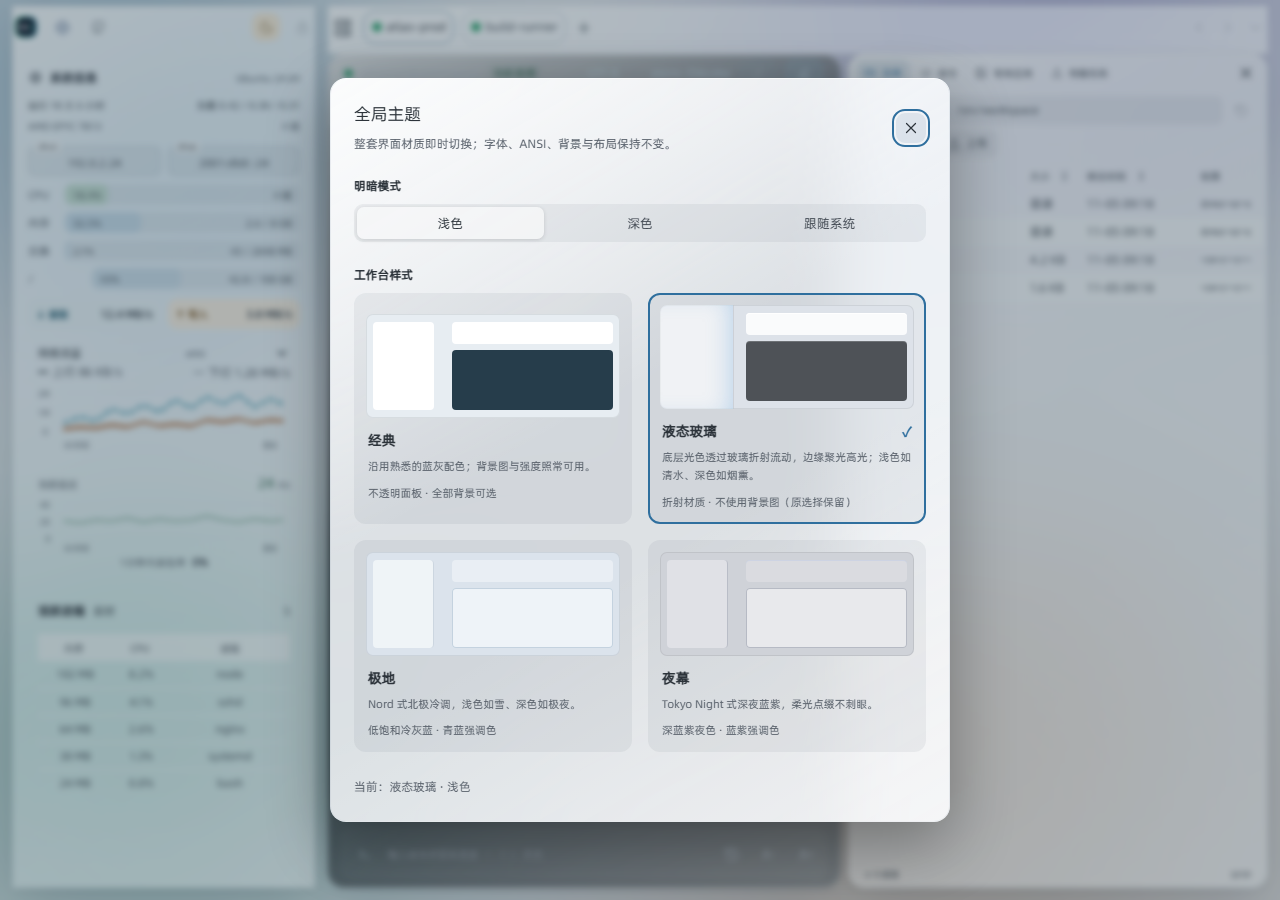
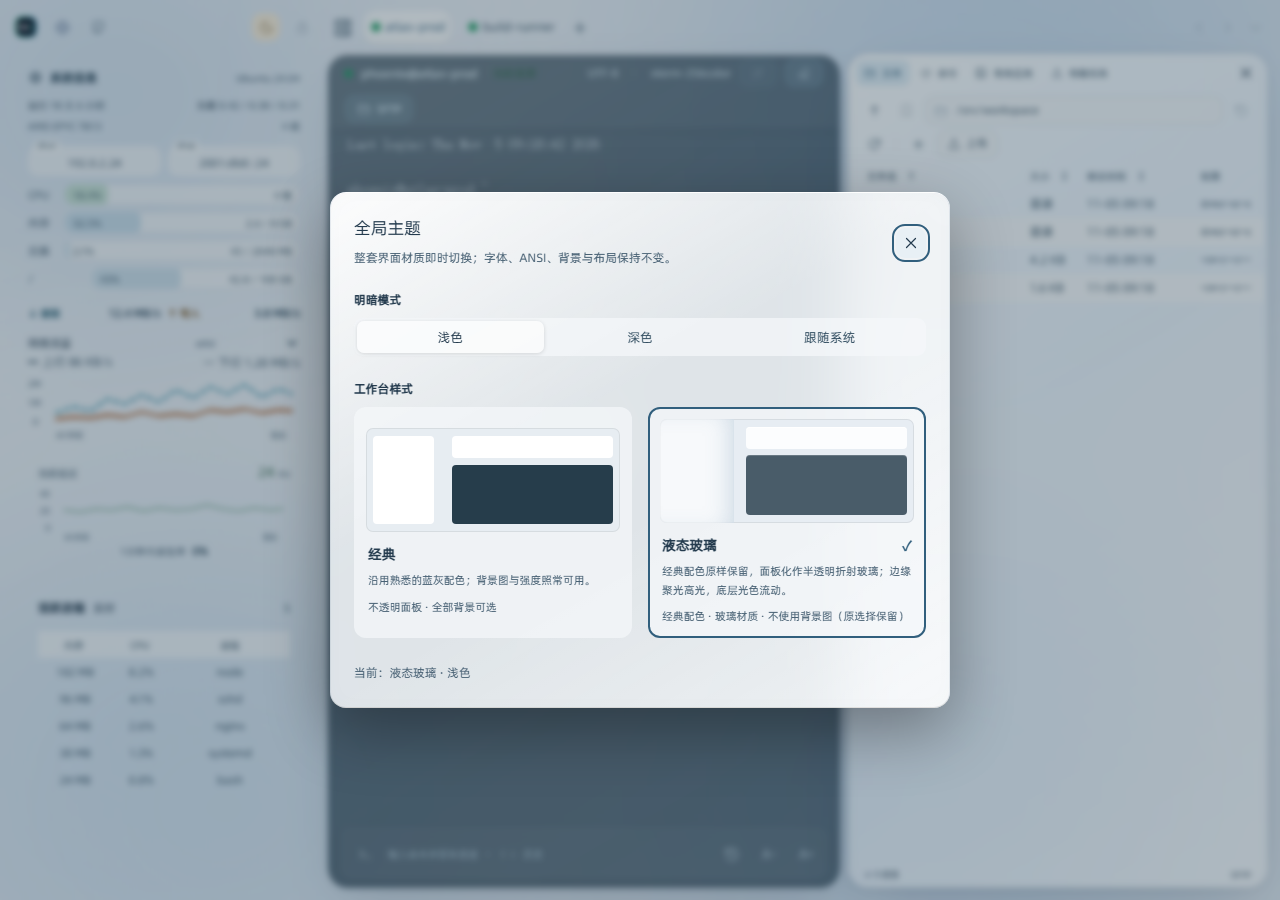
移除全局主题极地与夜幕
保存端工作台样式枚举收窄为 classic/frosted；Appearance.UnmarshalJSON 在加载时将旧配置及主题快照中的 polar/twilight 迁回 classic，保证老用户后续保存不被新校验拒绝。boot 注入白名单、风格选择对话框、预览生成器与文档同步为两套主题，删除极地/夜幕预览图。验证：go vet、go test ./internal/app（含新增迁移回归）、npm run check、test:theme 全部通过；预览页已重新生成并补拍对话框截图。

diff --git a/web/js/help-guide.js b/web/js/help-guide.js
@@ -18,7 +18,7 @@
     { id: 'monitor', title: '系统、进程与磁盘', icon: 'cpu', html: `<p>左侧上方以对应操作系统图标和完整名称突出显示发行版，并显示当前服务器的运行时间、CPU、内存、交换空间和负载；活跃进程常驻显示前五，可按 CPU 或内存切换排名。点击进程区域打开独立的完整进程标签，支持按 PID、名称或状态搜索，以及 CPU、内存、PID、状态和名称排序。每页显示 50、100 或 200 行；每个服务器保留自己的搜索和分页。可暂停自动刷新，切走进程标签后停止该页面请求。完整列表的 RSS 使用轻量内核计数，估算值带“≈”；侧栏只对前五候选精读内存。大量进程或采集较慢时自动降低刷新频率，失败会保留上次数据并提示。</p><p>网络流量每<strong>1秒</strong>独立采样，负载、CPU、内存和磁盘速率每<strong>5秒</strong>采样；网卡元信息和磁盘容量约30秒刷新。每条已连接SSH的网卡流量在后台持续记录，切换标签或最小化也保留最近30秒真实历史；回到标签时立即显示。负载、CPU、内存和磁盘等其它采样仍按可见状态请求。网络使用远端实际时间差计算，SSH或TUN返回延迟不会被当成远端采样间隔。读数明确标注“上行”和“下行”，例如上行4.0 KiB/s、下行819 B/s。默认上行橙色实线、下行蓝色虚线，可在“设置 → 外观配置 → 曲线样式”中分别调整颜色、粗细和线型；刻度按最近<strong>60秒</strong>数据自动切换B/s、KiB/s、MiB/s、GiB/s刻度（1024进位），新峰值立即扩大范围，较小范围稳定5秒后缩小。缺测保留断点，不填入假零值。下方磁盘区域汇总已挂载本地磁盘文件系统的已用、可用和总计空间，包括独立的 /home、/data 等分区；同一文件系统的重复挂载只计算一次，排除内存盘、网络挂载、容器叠加层及 SWAP。容量以文件系统报告值为准，不包含未挂载空间，可用空间可能因文件系统保留空间而少于总计减已用。容器或存储池根文件系统无法安全合计时，保留根文件系统容量。读写速度仍显示在下方，悬停容量区域可查看参与汇总的路径。</p><p>IPv4/IPv6面板只显示可确认的公网地址，点击复制，悬停查看来源；可能显示SSH入口或网卡地址。NAT入口不等于服务器出口，无法确认时显示“—”。真实内网地址仍保留在网卡菜单提示中。</p><p>这些数值来自远程服务器的周期采样，不是本机硬件数据。刚连接时需要等待首轮采样；部分权限或系统接口不可用时可能显示“—”。较窄窗口可通过顶部芯片图标打开侧栏。</p>` },
     { id: 'network', title: 'ICMP 与 MTR 网络诊断', icon: 'network', html: `<p>ICMP 区域展示本机到服务器的当前延迟、最近 1 分钟丢包率和延迟连续曲线。曲线从左到右由旧到新，经过真实采样并保留峰值；丢包和缺测位置断开。刻度与曲线使用同一坐标系；左侧毫秒刻度按当前样本调整，非零起点有断轴标记。成功回包使用同一种颜色，红叉代表超时或不可达（延迟未知），灰点代表待回包或本机探测不可用。悬停可查看时间、读数和状态，也可聚焦图表后用左右方向键逐项查看。</p><p>点击网络区域可打开 MTR 诊断。可以从本机探测服务器，也可以从远程服务器探测你指定的目标，查看每一跳的响应和可用的 ASN 信息。</p><ul><li>缺少 <code>mtr</code> 时，界面会显示安装方案和命令，只有明确确认后才开始安装。</li><li>需要交互验证时，按提示在对应终端完成；安装后可以重新检测。</li><li>中间路由器可能不响应或限制探测包，单个中间节点不回复不能直接判断业务流量丢包。</li><li>代理、TUN、路由和目标是否允许 ICMP，都会影响结果。ICMP 数值不是 SSH 会话的按键响应计时。</li></ul>` },
     { id: 'fonts', title: '字体、加粗与文字颜色', icon: 'type', html: `<p>左上角设置 → 外观配置 → <strong>Shell 字体与颜色</strong>打开字体管理器。内置 JetBrains Mono、Fira Code、Source Code Pro、IBM Plex Mono、Maple Mono CN 五款字体，Maple 同时补齐中文。在线字体库提供 30 款 Shell 字体，确认后下载并保存到本机；也可导入 TTF、OTF、WOFF、WOFF2 字体。</p><ul><li>点击字体卡片立即切换终端字体；字号控件与终端 A− / A+ 均按 <strong>0.5 px</strong> 调整，范围为 8–40 px。可输入例如 14.5，选择会保存，重启后保留。</li><li>每张卡片都有独立的<strong>加粗</strong>和<strong>颜色</strong>控件，颜色按钮打开可拖动的配色窗口。可用预设色、颜色选择器、RGB 数值或 HEX 颜色。</li><li>当前字体的修改立即预览；修改其他卡片只保存那款字体的样式，切换过去后再应用。</li><li>字体管理器可拖动，不遮暗终端，方便观察真实显示效果。可以删除自行导入的字体。</li></ul><p>外观配置中的<strong>提示符颜色</strong>可分别调整 @ 前的用户名和 @ 后的主机名，支持预设色、RGB、HEX 和拖动预览；Bash / Zsh / Fish 在下次提示符出现时生效，两项选择“保持原样”恢复原提示符。终端默认文字颜色可自定义，远程程序主动设置的 ANSI 颜色仍保留其含义。自定义字体的符号覆盖和等宽效果取决于字体本身。</p>` },
-    { id: 'appearance', title: '背景、主题、布局与缩放', icon: 'image', html: `<p>设置 → 外观配置 → <strong>背景管理器</strong>可选择内置背景或导入 PNG、JPG、WebP 图片，并调整显示强度。选择后立即应用；面板可拖动，自定义背景可删除。</p><ul><li>外观配置中的<strong>终端 ANSI 颜色</strong>提供柔和、高饱和、鲜亮三套 16 色预设，本地调整 ls、vim 等程序彩色文件名等语义色，切换即时生效；真彩色与 256 色不受影响。</li><li>外观配置中的<strong>全局主题</strong>提供经典、液态玻璃、极地、夜幕四种整套界面材质，切换会重绘面板、菜单、对话框与强调色，并与明暗模式、字体、ANSI、背景与布局互相独立；液态玻璃沿用经典配色，只把面板换成高度透明的折射玻璃，底层光色透过玻璃流动、边缘带聚光高光与镜面光泽，不使用背景图（原背景选择会保留），系统不支持透明模糊或开启减少透明度时自动回退同色实底；极地为 Nord 式北极冷调，夜幕为 Tokyo Night 式深夜蓝紫，两者两种明暗下终端都保持深色阅读底。选择后立即生效并保存。</li><li>外观配置中的<strong>明暗跟随系统</strong>让Windows和Linux随桌面偏好切换主题，选择会保存。左上角太阳 / 月亮按钮手动切换浅色和深色时会退出跟随；重新打开该开关即可恢复。系统变化和手动变化都使用开灯/关灯渐变。</li><li>默认最小窗口宽度为 1100 px（小屏幕以可用工作区为限）。监控栏宽度固定为 304 px，右侧 SFTP 面板宽度固定为 420 px；打开右侧面板会扩展窗口，关闭时收回扩展的宽度。最大化或屏幕空间不足时自动调整缩放，保证工具按钮可见。上方、下方的 SFTP 面板仍可拖动分隔条调整高度；SFTP 面板的位置（终端下方／右侧／上方）统一在设置的「SFTP面板」中选择，面板内右上角的按钮只用于关闭面板；「跟随终端目录」也同样是设置中的下拉选择，默认开启。</li><li>设置中的<strong>界面缩放</strong>调整整个应用；终端的字号按钮只改变终端文字。</li><li>设置中的<strong>简洁模式</strong>一键隐藏监控面板、SFTP 面板与终端标题栏（含断开、固定、SFTP 按钮），并把底部命令输入条自动收起为左侧按钮（点按钮可临时展开）；关闭开关后监控面板与标题栏恢复，SFTP 面板不自动展开，需要时手动打开。</li><li>窗口较小时会适当限制实际缩放，避免控件被挤出窗口；放大窗口后恢复所选比例。</li><li>外观配置中的<strong>主题管理</strong>把当前整套外观（明暗模式、全局主题、界面与终端字体颜色、ANSI 预设、背景与强度、终端字号、曲线样式、提示符颜色）保存为独立主题：从当前外观新建，支持应用、重命名、复制与两步确认删除。应用时整套生效；主题引用的字体或背景若已被删除会报错并保持当前外观不变。主题不影响布局与界面缩放。</li><li>外观配置中的“恢复默认布局”恢复布局和终端字号。</li></ul>` },
+    { id: 'appearance', title: '背景、主题、布局与缩放', icon: 'image', html: `<p>设置 → 外观配置 → <strong>背景管理器</strong>可选择内置背景或导入 PNG、JPG、WebP 图片，并调整显示强度。选择后立即应用；面板可拖动，自定义背景可删除。</p><ul><li>外观配置中的<strong>终端 ANSI 颜色</strong>提供柔和、高饱和、鲜亮三套 16 色预设，本地调整 ls、vim 等程序彩色文件名等语义色，切换即时生效；真彩色与 256 色不受影响。</li><li>外观配置中的<strong>全局主题</strong>提供经典、液态玻璃两套整套界面材质，切换会重绘面板、菜单、对话框与强调色，并与明暗模式、字体、ANSI、背景与布局互相独立；液态玻璃沿用经典配色，只把面板换成高度透明的折射玻璃，底层光色透过玻璃流动、边缘带聚光高光与镜面光泽，不使用背景图（原背景选择会保留），系统不支持透明模糊或开启减少透明度时自动回退同色实底。选择后立即生效并保存。</li><li>外观配置中的<strong>明暗跟随系统</strong>让Windows和Linux随桌面偏好切换主题，选择会保存。左上角太阳 / 月亮按钮手动切换浅色和深色时会退出跟随；重新打开该开关即可恢复。系统变化和手动变化都使用开灯/关灯渐变。</li><li>默认最小窗口宽度为 1100 px（小屏幕以可用工作区为限）。监控栏宽度固定为 304 px，右侧 SFTP 面板宽度固定为 420 px；打开右侧面板会扩展窗口，关闭时收回扩展的宽度。最大化或屏幕空间不足时自动调整缩放，保证工具按钮可见。上方、下方的 SFTP 面板仍可拖动分隔条调整高度；SFTP 面板的位置（终端下方／右侧／上方）统一在设置的「SFTP面板」中选择，面板内右上角的按钮只用于关闭面板；「跟随终端目录」也同样是设置中的下拉选择，默认开启。</li><li>设置中的<strong>界面缩放</strong>调整整个应用；终端的字号按钮只改变终端文字。</li><li>设置中的<strong>简洁模式</strong>一键隐藏监控面板、SFTP 面板与终端标题栏（含断开、固定、SFTP 按钮），并把底部命令输入条自动收起为左侧按钮（点按钮可临时展开）；关闭开关后监控面板与标题栏恢复，SFTP 面板不自动展开，需要时手动打开。</li><li>窗口较小时会适当限制实际缩放，避免控件被挤出窗口；放大窗口后恢复所选比例。</li><li>外观配置中的<strong>主题管理</strong>把当前整套外观（明暗模式、全局主题、界面与终端字体颜色、ANSI 预设、背景与强度、终端字号、曲线样式、提示符颜色）保存为独立主题：从当前外观新建，支持应用、重命名、复制与两步确认删除。应用时整套生效；主题引用的字体或背景若已被删除会报错并保持当前外观不变。主题不影响布局与界面缩放。</li><li>外观配置中的“恢复默认布局”恢复布局和终端字号。</li></ul>` },
     { id: 'config', title: '配置、备份与换电脑', icon: 'folder', html: `<p>设置 → <strong>连接配置文档</strong>可查看实际保存位置并复制路径。便携版默认使用程序旁 data 目录；deb 版使用用户配置目录。</p><ol><li><strong>升级：</strong>在同一目录中替换可执行程序，保留配置文件和资源。</li><li><strong>备份或换电脑：</strong>一起复制 <code>devshell.config.enc</code>、<code>devshell.config.key</code>、<code>assets/</code> 和 <code>keys/</code>，不要只复制加密配置文件。</li><li><strong>恢复：</strong>退出应用，将整套备份放回实际配置目录，再启动。手动指定的外部私钥需要另行复制并检查路径。</li></ol><p>多个窗口共享同一配置服务，保存时只合并实际修改的设置、字体样式键和历史键，避免旧快照覆盖其他窗口的新设置；同一项同时修改时以最后成功保存为准。程序使用旁边的密钥文件自动解锁配置；加密不防止文件被删除。新程序目录没有配置时不会自动读取旧的用户目录，请按“连接配置文档”中的迁移说明处理。具体位置以应用显示的实际路径为准。</p>` },
     { id: 'startup', title: '启动、版本与再次查看帮助', icon: 'settings', html: `<p>首次功能引导会在版本提示结束后出现；“暂时结束”、关闭按钮或 <kbd>Esc</kbd> 都可以提前结束，并记录为已查看。</p><p>启动时可检查版本信息。发现新版本时显示当前版本、新版本和更新说明，可以选择“稍后再说”。Windows、Debian/Ubuntu 和 Arch pacman 版确认在线升级后会下载、验证发行签名并安装更新；Linux 安装需要系统授权。旧 Arch 客户端须先手动安装一次 R28 或更新版。其他 Linux 系列可到官网下载 RPM 或通用安装包。替换主程序需要重新启动并断开会话；可备份配置后在原目录手动替换程序。</p><p>设置按钮左侧的书本图标始终是本手册入口。手册支持关键词搜索和章节跳转，下方“重新查看引导”会从第一步重新开始；查看说明不会创建连接或执行命令。</p>` },
     { id: 'file-editor', title: '文件右键菜单与文本编辑器', icon: 'file', html: `<p>双击文件默认进入内置文本编辑器。左侧目录树不响应右键。右侧右键文件或目录可以打开、选择打开方式、删除、快速删除、重命名、打包下载、复制路径及修改权限；空白处右键可以刷新、新建文件或文件夹。</p><p>文本编辑器支持 UTF-8、带 BOM 的 UTF-8 / UTF-16、GB18030、GBK 和 Big5，保留原有 BOM、空格及混合换行。粘贴按剪贴板交付的 Unicode 原样插入；操作系统已经转换的原始字节无法从剪贴板恢复。编码不明确时需手动选择，不猜测后静默保存。单文件最大 8 MiB。</p><p>每个文件拥有独立标签、文本和撤销记录，可同时打开不同服务器的文件。标签显示服务器、文件名及“当前查看”；可移到新的可拖动编辑窗口，每个窗口都有自己的标签栏。收起后通过文件工具栏“文本编辑器”恢复。关闭未保存文件会询问，连接断开后保留草稿供复制。Ctrl+Tab 切换文件，Ctrl+W 关闭当前文件。</p><p>按 Ctrl+S 保存到文件原所属服务器；保存前检查远程文件是否被其他程序改动，原子替换并保留权限与所有者。系统关联在本地打开下载的副本，可指定编辑器可执行文件；外部修改后需要手动上传。右键菜单的<strong>删除</strong>和<strong>快速删除</strong>都先弹出确认框，列出服务器和完整路径；目录删除包含子项且无法撤销。切换页签不会改变已确认的目标；原连接若已断开，本次删除不会执行。打包在本机进行，不占用远程压缩进程。</p>` },

diff --git a/web/css/ui-styles.css b/web/css/ui-styles.css
@@ -38,22 +38,6 @@
 [data-theme="light"] .ui-style-swatch-frosted i { background:#ffffffa6; border-color:#658daf33; }
 [data-theme="light"] .ui-style-swatch-frosted b { background:#ffffffd9; box-shadow:inset 0 1px #fff; }
 [data-theme="light"] .ui-style-swatch-frosted em { background:#223746cc; box-shadow:inset 0 1px #ffffff2e; }
-.ui-style-swatch-polar { background:#20242c; }
-.ui-style-swatch-polar i { background:#2e3440dd; border-right:1px solid #434c5e; }
-.ui-style-swatch-polar b { background:#3b4252; }
-.ui-style-swatch-polar em { background:#242933; box-shadow:inset 0 0 0 1px #434c5e,inset 0 1px #88c0d033; }
-[data-theme="light"] .ui-style-swatch-polar { background:#dbe3ec; }
-[data-theme="light"] .ui-style-swatch-polar i { background:#f4f7facc; border-color:#ccd6e0; }
-[data-theme="light"] .ui-style-swatch-polar b { background:#e9eef4; }
-[data-theme="light"] .ui-style-swatch-polar em { background:#eef3f8; box-shadow:inset 0 0 0 1px #c4d2df; }
-.ui-style-swatch-twilight { background:#12121a; }
-.ui-style-swatch-twilight i { background:#1a1b26; border-right:1px solid #292e42; }
-.ui-style-swatch-twilight b { background:#24283b; box-shadow:inset 0 1px #7aa2f722; }
-.ui-style-swatch-twilight em { background:#16161e; box-shadow:inset 0 0 0 1px #292e42,inset 0 1px #bb9af726; }
-[data-theme="light"] .ui-style-swatch-twilight { background:#cfd2d8; }
-[data-theme="light"] .ui-style-swatch-twilight i { background:#e4e5eacc; border-color:#b9bdc7; }
-[data-theme="light"] .ui-style-swatch-twilight b { background:#dadbe0; }
-[data-theme="light"] .ui-style-swatch-twilight em { background:#e8e9ec; box-shadow:inset 0 0 0 1px #b6bac4; }
 #ui-styles-dialog .ui-style-status { margin:0; min-height:18px; font-size:12px; color:var(--muted); }
 @media(max-width:520px) { #ui-styles-dialog { padding:18px; } .ui-style-grid { gap:10px; } .ui-style-swatch { height:88px; } }
 
@@ -162,47 +146,3 @@ html[data-ui-style="frosted"]:not([data-narrow="true"]):not([data-monitor-visibl
   .ui-style-card[aria-pressed="true"],.ui-style-segmented button[aria-pressed="true"] { border:2px solid Highlight; }
 }
 
-/* —— 极地：Nord 式冷色材质，浅色如雪、深色如极夜，不透明 —— */
-:root[data-ui-style="polar"][data-theme] {
-  --surface:#343c4a; --surface-inset:#2b323e; --surface-hover:#414a5c; --surface-selected:#4c5870;
-  --border:#47526680; --text:#eceff4; --text-secondary:#d8dee9; --muted:#adb8c8; --text-faint:#8d99ab;
-  --accent:#88c0d0; --focus-surface:#3d4757; --focus-input:#2e3542; --primary-focus:#5e81ac;
-  --shadow:0 3px 18px #0000002e,0 1px 3px #0000001a;
-  color-scheme:dark; background:#242933; color:var(--text);
-}
-:root[data-ui-style="polar"][data-theme="light"] {
-  --surface:#f6f9fc; --surface-inset:#e9eef4; --surface-hover:#dde6ef; --surface-selected:#cfe0ec;
-  --border:#ccd6e0; --text:#2e3440; --text-secondary:#3b4252; --muted:#4c566a; --text-faint:#6a7488;
-  --accent:#3f6d94; --focus-surface:#dce8f2; --focus-input:#ffffff; --primary-focus:#3b6ea5;
-  --shadow:0 3px 18px #33445c14,0 1px 3px #33445c0a;
-  color-scheme:light; background:#e0e8f0;
-}
-[data-ui-style="polar"] body { background:linear-gradient(165deg,#eef3f8,#e2e9f1 55%,#d9e2eb); color:var(--text); }
-[data-ui-style="polar"][data-theme] body { background:linear-gradient(165deg,#2c333f,#252a34 55%,#1f242c); }
-[data-ui-style="polar"] :is(.primary-button,.dialog-actions .primary-button) { background:#487398; color:#f3f7fb; }
-[data-ui-style="polar"][data-theme] :is(.primary-button,.dialog-actions .primary-button) { background:#5e81ac; color:#f0f4fa; }
-/* 终端与毛玻璃同策：两种明暗都用深色阅读底，保证 ANSI 可读。 */
-[data-ui-style="polar"] .terminal-panel { background:#2b323e; }
-[data-ui-style="polar"][data-theme="light"] .terminal-panel { background:#3b4351; }
-
-/* —— 夜幕：Tokyo Night 式深蓝紫夜色，浅色取其日间变体 —— */
-:root[data-ui-style="twilight"][data-theme] {
-  --surface:#1f2133; --surface-inset:#16161e; --surface-hover:#2a2f4a; --surface-selected:#35406b;
-  --border:#333a5880; --text:#a9b1d6; --text-secondary:#9aa5ce; --muted:#7f88b0; --text-faint:#616a95;
-  --accent:#7aa2f7; --focus-surface:#2b3153; --focus-input:#232740; --primary-focus:#3d59a1;
-  --shadow:0 4px 22px #00000040,0 1px 3px #00000026;
-  color-scheme:dark; background:#13131b; color:var(--text);
-}
-:root[data-ui-style="twilight"][data-theme="light"] {
-  --surface:#eceef2; --surface-inset:#dfe1e7; --surface-hover:#d3d7e0; --surface-selected:#c4cee2;
-  --border:#b9bdc7; --text:#373b4d; --text-secondary:#4c505e; --muted:#6d7284; --text-faint:#8a8fa2;
-  --accent:#3763bd; --focus-surface:#d7deee; --focus-input:#f6f7fa; --primary-focus:#3763bd;
-  --shadow:0 3px 18px #262b4516,0 1px 3px #262b450c;
-  color-scheme:light; background:#dcdee5;
-}
-[data-ui-style="twilight"] body { background:radial-gradient(ellipse at 18% 0%,#e3e5ea,#d2d5dd 70%); color:var(--text); }
-[data-ui-style="twilight"][data-theme] body { background:radial-gradient(ellipse at 18% 0%,#1c1e2e,#101019 70%); }
-[data-ui-style="twilight"] :is(.primary-button,.dialog-actions .primary-button) { background:#3763bd; color:#f4f7fd; }
-[data-ui-style="twilight"][data-theme] :is(.primary-button,.dialog-actions .primary-button) { background:#3d59a1; color:#dbe4fb; }
-[data-ui-style="twilight"] .terminal-panel { background:#16161e; }
-[data-ui-style="twilight"][data-theme="light"] .terminal-panel { background:#2a2f4a; }

diff --git a/docs/design/global-themes-preview.html b/docs/design/global-themes-preview.html
@@ -210,8 +210,6 @@
     <fieldset><legend>工作台样式</legend><div class="ui-style-grid">
       <button type="button" class="ui-style-card" data-ui-style="classic"><span class="ui-style-swatch ui-style-swatch-classic" aria-hidden="true"><i></i><b></b><em></em></span><span class="ui-style-card-heading">经典 <span class="ui-style-selected">✓</span></span><small>沿用熟悉的蓝灰配色；背景图与强度照常可用。</small><span class="ui-style-card-meta">不透明面板 · 全部背景可选</span></button>
       <button type="button" class="ui-style-card" data-ui-style="frosted"><span class="ui-style-swatch ui-style-swatch-frosted" aria-hidden="true"><i></i><b></b><em></em></span><span class="ui-style-card-heading">液态玻璃 <span class="ui-style-selected">✓</span></span><small>经典配色原样保留，面板化作半透明折射玻璃；边缘聚光高光，底层光色流动。</small><span class="ui-style-card-meta">经典配色 · 玻璃材质 · 不使用背景图（原选择保留）</span></button>
-      <button type="button" class="ui-style-card" data-ui-style="polar"><span class="ui-style-swatch ui-style-swatch-polar" aria-hidden="true"><i></i><b></b><em></em></span><span class="ui-style-card-heading">极地 <span class="ui-style-selected">✓</span></span><small>Nord 式北极冷调，浅色如雪、深色如极夜。</small><span class="ui-style-card-meta">低饱和冷灰蓝 · 青蓝强调色</span></button>
-      <button type="button" class="ui-style-card" data-ui-style="twilight"><span class="ui-style-swatch ui-style-swatch-twilight" aria-hidden="true"><i></i><b></b><em></em></span><span class="ui-style-card-heading">夜幕 <span class="ui-style-selected">✓</span></span><small>Tokyo Night 式深夜蓝紫，柔光点缀不刺眼。</small><span class="ui-style-card-meta">深蓝紫夜色 · 蓝紫强调色</span></button>
     </div></fieldset>
     <p class="ui-style-status" id="ui-style-status" role="status"></p>
   </dialog>
@@ -246,8 +244,8 @@
   systemRow.innerHTML = '<span>明暗跟随系统<small id="follow-system-theme-hint"></small></span><input id="follow-system-theme" type="checkbox" role="switch" aria-describedby="follow-system-theme-hint">';
   $('#settings-appearance-view .settings-submenu-heading').after(systemRow);
   $('#ui-scale').value = '1';
-  const styleNames = { classic: '经典', frosted: '液态玻璃', polar: '极地', twilight: '夜幕' };
-  const validStyle = value => ['classic', 'frosted', 'polar', 'twilight'].includes(value) ? value : 'frosted';
+  const styleNames = { classic: '经典', frosted: '液态玻璃' };
+  const validStyle = value => ['classic', 'frosted'].includes(value) ? value : 'frosted';
   let style = validStyle(params.get('style'));
   let preference = ['light','dark','system'].includes(params.get('mode')) ? params.get('mode') : 'dark';
   function reflect() {

diff --git a/web/index.html b/web/index.html
@@ -327,8 +327,6 @@
     <fieldset><legend>工作台样式</legend><div class="ui-style-grid">
       <button type="button" class="ui-style-card" data-ui-style="classic"><span class="ui-style-swatch ui-style-swatch-classic" aria-hidden="true"><i></i><b></b><em></em></span><span class="ui-style-card-heading">经典 <span class="ui-style-selected">✓</span></span><small>沿用熟悉的蓝灰配色；背景图与强度照常可用。</small><span class="ui-style-card-meta">不透明面板 · 全部背景可选</span></button>
       <button type="button" class="ui-style-card" data-ui-style="frosted"><span class="ui-style-swatch ui-style-swatch-frosted" aria-hidden="true"><i></i><b></b><em></em></span><span class="ui-style-card-heading">液态玻璃 <span class="ui-style-selected">✓</span></span><small>经典配色原样保留，面板化作半透明折射玻璃；边缘聚光高光，底层光色流动。</small><span class="ui-style-card-meta">经典配色 · 玻璃材质 · 不使用背景图（原选择保留）</span></button>
-      <button type="button" class="ui-style-card" data-ui-style="polar"><span class="ui-style-swatch ui-style-swatch-polar" aria-hidden="true"><i></i><b></b><em></em></span><span class="ui-style-card-heading">极地 <span class="ui-style-selected">✓</span></span><small>Nord 式北极冷调，浅色如雪、深色如极夜。</small><span class="ui-style-card-meta">低饱和冷灰蓝 · 青蓝强调色</span></button>
-      <button type="button" class="ui-style-card" data-ui-style="twilight"><span class="ui-style-swatch ui-style-swatch-twilight" aria-hidden="true"><i></i><b></b><em></em></span><span class="ui-style-card-heading">夜幕 <span class="ui-style-selected">✓</span></span><small>Tokyo Night 式深夜蓝紫，柔光点缀不刺眼。</small><span class="ui-style-card-meta">深蓝紫夜色 · 蓝紫强调色</span></button>
     </div></fieldset>
     <p class="ui-style-status" id="ui-style-status" role="status"></p>
   </dialog>

diff --git a/web/js/ui-styles.js b/web/js/ui-styles.js
@@ -1,15 +1,16 @@
-/* 全局主题对话框：选择工作台样式（classic/frosted/polar/twilight）与明暗模式。
+/* 全局主题对话框：选择工作台样式（classic/frosted）与明暗模式。
    样式只重绘整套界面材质，走普通 appearance 补丁持久化；与字体、ANSI、
-   背景选择、布局互相独立，切换不重建终端也不中断连接。 */
+   背景选择、布局互相独立，切换不重建终端也不中断连接。旧的极地（polar）
+   与夜幕（twilight）已移除，保存值在加载时迁回 classic。 */
 (() => {
   'use strict';
   const dialog = document.getElementById('ui-styles-dialog');
   const status = document.getElementById('ui-style-status');
   const styles = [...dialog.querySelectorAll('[data-ui-style]')];
   const modes = [...dialog.querySelectorAll('[data-theme-mode]')];
-  const names = { classic: '经典', frosted: '液态玻璃', polar: '极地', twilight: '夜幕' };
+  const names = { classic: '经典', frosted: '液态玻璃' };
   let saving = false;
-  function currentStyle() { return ['frosted', 'polar', 'twilight'].includes(appearance.uiStyle) ? appearance.uiStyle : 'classic'; }
+  function currentStyle() { return appearance.uiStyle === 'frosted' ? 'frosted' : 'classic'; }
   function reflect() {
     const style = currentStyle();
     for (const button of styles) button.setAttribute('aria-pressed', String(button.dataset.uiStyle === style));

diff --git a/web/js/appearance.js b/web/js/appearance.js
@@ -1,6 +1,6 @@
 'use strict';
 
-let appearance = { uiStyle: ['frosted', 'polar', 'twilight'].includes(window.DEVSHELL?.uiStyle) ? window.DEVSHELL.uiStyle : 'classic', uiFontId: 'builtin:ui-alibaba-puhuiti-3-55', uiTextColors: {}, fontId: 'builtin:jetbrains-mono', fontColors: {}, fontBold: {}, chartStyles: {}, backgroundId: 'builtin:none', backgroundOpacity: .42, backgroundVersion: 2, uiScale: Number(window.DEVSHELL?.uiScale) || 1, terminalFontSize: 14, ansiPalette: '', autoCommandsEnabled: true, localShellEnabled: false, tcpToolsEnabled: true };
+let appearance = { uiStyle: window.DEVSHELL?.uiStyle === 'frosted' ? 'frosted' : 'classic', uiFontId: 'builtin:ui-alibaba-puhuiti-3-55', uiTextColors: {}, fontId: 'builtin:jetbrains-mono', fontColors: {}, fontBold: {}, chartStyles: {}, backgroundId: 'builtin:none', backgroundOpacity: .42, backgroundVersion: 2, uiScale: Number(window.DEVSHELL?.uiScale) || 1, terminalFontSize: 14, ansiPalette: '', autoCommandsEnabled: true, localShellEnabled: false, tcpToolsEnabled: true };
 const appearanceMapFields = new Set(['fontColors', 'fontBold', 'chartStyles', 'uiTextColors']);
 const appearanceOwnedElsewhere = new Set(['layout', 'windowWidth', 'windowHeight', 'windowMaximised', 'terminalBold']);
 let appearanceSaved = appearanceSnapshot(appearance);

diff --git a/web/js/theme.js b/web/js/theme.js
@@ -2,7 +2,7 @@
 (() => {
   'use strict';
   const key = 'cloudshell.theme';
-  const uiStyles = new Set(['classic', 'frosted', 'polar', 'twilight']);
+  const uiStyles = new Set(['classic', 'frosted']);
   // Global workbench style: persisted through the appearance config, applied
   // here before styles load so the first painted frame already matches.
   document.documentElement.dataset.uiStyle = uiStyles.has(window.DEVSHELL?.uiStyle) ? window.DEVSHELL.uiStyle : 'classic';

diff --git a/internal/app/preferences.go b/internal/app/preferences.go
@@ -29,7 +29,7 @@ type Appearance struct {
 	// panels, dialogs and accents — not just a background picture). Each
 	// style paints its own light and dark variant and stays orthogonal to
 	// Theme, fonts, ANSI colours, background choice and layout.
-	UIStyle             string `json:"uiStyle"` // classic (default) | frosted | polar | twilight
+	UIStyle             string `json:"uiStyle"` // classic (default) | frosted
 	Theme               string `json:"theme"`
 	AnsiPalette         string `json:"ansiPalette,omitempty"` // soft (default) | vivid | bright
 	WindowWidth         int    `json:"windowWidth"`
@@ -98,6 +98,10 @@ func defaultAppearance() Appearance {
 	return Appearance{UIFontID: defaultUIFontID, UITextColors: map[string]string{}, FontID: "builtin:jetbrains-mono", FontColors: map[string]string{}, FontBold: map[string]bool{}, ChartStyles: map[string]ChartLineStyle{}, BackgroundID: "builtin:none", BackgroundOpacity: .42, BackgroundVersion: 2, UIScale: 1, TerminalFontSize: 14, UIStyle: "classic", Theme: "system", MonitorVisible: true, FilesPosition: "right", FollowTerminal: true, MinimizeAction: "ask", AutoCommandsEnabled: true, TcpToolsEnabled: true, Layout: map[string]json.RawMessage{}}
 }
 
+// retiredUIStyle names the polar/twilight workbench styles removed in
+// November 2026; saved values migrate to classic on load.
+func retiredUIStyle(value string) bool { return value == "polar" || value == "twilight" }
+
 // Old releases combined 18% image opacity with a dark multiply tint. Keep
 // explicit strengths, including zero, while replacing that old default once.
 func (value *Appearance) UnmarshalJSON(data []byte) error {
@@ -118,6 +122,16 @@ func (value *Appearance) UnmarshalJSON(data []byte) error {
 	}
 	if next.UIFontID == "" || retiredBuiltinUIFont(next.UIFontID) {
 		next.UIFontID = defaultUIFontID
+	}
+	// polar 与 twilight 已从全局主题中移除：旧配置与旧主题快照里的选择
+	// 在加载时迁回 classic，否则之后的任何外观保存都会被枚举校验拒绝。
+	if retiredUIStyle(next.UIStyle) {
+		next.UIStyle = "classic"
+	}
+	for index := range next.Themes {
+		if retiredUIStyle(next.Themes[index].UIStyle) {
+			next.Themes[index].UIStyle = "classic"
+		}
 	}
 	if strings.HasPrefix(next.FontID, "builtin:") && !builtinTerminalFont(next.FontID) {
 		next.FontID = "builtin:jetbrains-mono"
@@ -253,9 +267,9 @@ func normalizeAppearanceThemes(themes []AppearanceTheme) error {
 		}
 		if theme.UIStyle != "" {
 			switch theme.UIStyle {
-			case "classic", "frosted", "polar", "twilight":
+			case "classic", "frosted":
 			default:
-				return errors.New("主题工作台样式应为 classic、frosted、polar 或 twilight")
+				return errors.New("主题工作台样式应为 classic 或 frosted")
 			}
 		}
 		if theme.AnsiPalette != "" && theme.AnsiPalette != "soft" && theme.AnsiPalette != "vivid" && theme.AnsiPalette != "bright" {
@@ -380,9 +394,9 @@ func (s *Store) saveAppearanceLocked(value Appearance) (Appearance, error) {
 		value.UIStyle = "classic"
 	}
 	switch value.UIStyle {
-	case "classic", "frosted", "polar", "twilight":
+	case "classic", "frosted":
 	default:
-		return Appearance{}, errors.New("工作台样式应为 classic、frosted、polar 或 twilight")
+		return Appearance{}, errors.New("工作台样式应为 classic 或 frosted")
 	}
 	if err := validateSavedLayout(value.Layout); err != nil {
 		return Appearance{}, err

diff --git a/internal/app/theme_preferences_test.go b/internal/app/theme_preferences_test.go
@@ -2,6 +2,8 @@ package app
 
 import (
 	"encoding/json"
+	"os"
+	"path/filepath"
 	"strings"
 	"testing"
 )
@@ -117,7 +119,8 @@ func TestAppearanceThemesEmptyIsQuiet(t *testing.T) {
 	}
 }
 
-// 全局工作台样式：默认经典、四种枚举合法、非法值整笔拒绝且不动已存值。
+// 全局工作台样式：默认经典、两套枚举合法、已移除的 polar/twilight 整笔
+// 拒绝且不动已存值；旧配置文件里的旧值在加载时迁回 classic。
 func TestAppearanceUIStyle(t *testing.T) {
 	store, err := OpenStore(t.TempDir())
 	if err != nil {
@@ -126,19 +129,45 @@ func TestAppearanceUIStyle(t *testing.T) {
 	if got := store.List().Appearance.UIStyle; got != "classic" {
 		t.Fatal("default style should be classic", got)
 	}
-	for _, style := range []string{"frosted", "polar", "twilight", "classic"} {
+	for _, style := range []string{"frosted", "classic"} {
 		if saved, err := store.PatchAppearance(preferencePatch(t, `{"uiStyle":"`+style+`"}`)); err != nil || saved.UIStyle != style {
 			t.Fatalf("style %s rejected: %v %+v", style, err, saved)
 		}
 	}
-	if _, err := store.PatchAppearance(preferencePatch(t, `{"uiStyle":"vapor"}`)); err == nil || !strings.Contains(err.Error(), "工作台样式") {
-		t.Fatal("unknown style accepted", err)
+	for _, style := range []string{"polar", "twilight", "vapor"} {
+		if _, err := store.PatchAppearance(preferencePatch(t, `{"uiStyle":"`+style+`"}`)); err == nil || !strings.Contains(err.Error(), "工作台样式") {
+			t.Fatalf("removed or unknown style %s accepted", style)
+		}
 	}
 	if got := store.List().Appearance.UIStyle; got != "classic" {
 		t.Fatal("rejected style changed stored value", got)
 	}
 	if saved, err := reopenedSaveWithEmptyStyle(store); err != nil || saved.UIStyle != "classic" {
 		t.Fatal("empty style should normalize back to classic", saved.UIStyle, err)
+	}
+}
+
+// 旧版本保存过 polar/twilight 的配置与主题快照：重启加载即迁回 classic，
+// 不会让后续任何外观保存被枚举校验拒绝。
+func TestAppearanceUIStyleRetiredMigration(t *testing.T) {
+	dir := t.TempDir()
+	raw := `{"appearance":{"uiStyle":"twilight","themes":[{"id":"a1","name":"夜幕快照","uiStyle":"polar"}]}}`
+	if err := os.WriteFile(filepath.Join(dir, "config.json"), []byte(raw), 0600); err != nil {
+		t.Fatal(err)
+	}
+	store, err := OpenStore(dir)
+	if err != nil {
+		t.Fatal(err)
+	}
+	got := store.List().Appearance
+	if got.UIStyle != "classic" {
+		t.Fatal("retired live style should migrate to classic", got.UIStyle)
+	}
+	if len(got.Themes) != 1 || got.Themes[0].UIStyle != "classic" {
+		t.Fatal("retired snapshot style should migrate to classic", got.Themes)
+	}
+	if _, err := store.PatchAppearance(preferencePatch(t, `{"terminalFontSize":16}`)); err != nil {
+		t.Fatal("appearance patch after migration should save", err)
 	}
 }
 

diff --git a/internal/desktop/desktop.go b/internal/desktop/desktop.go
@@ -491,18 +491,6 @@ func runDesktopBackend(application desktopBackend, assets fs.FS, configDir, deta
 		} else {
 			windowBackground = options.NewRGB(232, 230, 223)
 		}
-	case "polar":
-		if darkAtStart {
-			windowBackground = options.NewRGB(36, 41, 51)
-		} else {
-			windowBackground = options.NewRGB(222, 229, 236)
-		}
-	case "twilight":
-		if darkAtStart {
-			windowBackground = options.NewRGB(22, 22, 30)
-		} else {
-			windowBackground = options.NewRGB(213, 214, 219)
-		}
 	}
 	return wails.Run(&options.App{
 		Title: "DevShell", Width: initial.Width, Height: initial.Height, MinWidth: initial.MinWidth, MinHeight: initial.MinHeight,

diff --git a/docs/design/GLOBAL-THEMES.md b/docs/design/GLOBAL-THEMES.md
@@ -1,7 +1,7 @@
 # 全局主题（Global Themes）设计记录
 
 对应入口：设置 → 外观配置 → **全局主题**。持久化字段：`appearance.uiStyle`
-（`classic`（默认）| `frosted` | `polar` | `twilight`），与 `theme`（light/dark/system）、
+（`classic`（默认）| `frosted`），与 `theme`（light/dark/system）、
 字体、ANSI 预设、背景选择、布局全部正交。
 
 ## 互联网案例与结论
@@ -16,25 +16,19 @@
   控件建立包含块。
 - **玻璃拟态通行做法**（glassmorphism）：低饱和底色 + 薄亮边 + 内高光 +
   克制的投影；文字不模糊、只模糊底衬。
-- **Nord**：低饱和“极地夜/雪暴”十色体系，深浅两模式同一色族。
-- **Tokyo Night**：深蓝紫夜色 + 蓝紫强调，另有官方日间变体。
 
-## 四套样式
+## 两套样式
 
 | 样式 | 浅色 | 深色 | 强调 | 模糊 |
 | --- | --- | --- | --- | --- |
 | 经典 | 现状不变 | 现状不变 | 现状 | 无 |
 | 液态玻璃 | 经典配色 · 白玻璃 58% | 经典配色 · 暗玻璃 60% | 经典强调色 | 侧栏 30px、面板 26px、浮层 30px（强饱和采样） |
-| 极地 | 雪 #f6f9fc | 极夜板 #343c4a | 冰蓝 #3f6d94 / #88c0d0 | 无 |
-| 夜幕 | 日间 #eceef2 | 夜色板 #1f2133 | 蓝 #3763bd / #7aa2f7 | 无 |
 
 - 材质只重绘 CSS 变量（`--surface/--surface-inset/--surface-hover/--surface-selected/
   --text*/--accent/--border/--shadow`）与少量组件规则（顶栏伪元素、连续侧栏、
   终端面板、浮层），不新增布局、不改控件几何；经典完全不受影响。
 - **终端阅读底**：液态玻璃沿用经典配色——终端底即经典终端底加透明度（浅
-  #223746/72%，深 #0f161d/70%），文字色与经典一致，自定义字体颜色优先；
-  极地、夜幕用各自色板的深色终端底（极地 #2b323e/浅 #3b4351；
-  夜幕 #16161e/浅 #2a2f4a），保证 ANSI 语义色可读。
+  #223746/72%，深 #0f161d/70%），文字色与经典一致，自定义字体颜色优先。
 - 液态玻璃区别于平铺磨砂：面板更透明（saturate 1.5–1.8，底层光斑色相取经典
   强调色同族的蓝，不引入经典之外的颜色），**两层**光斑以不同速度反向漂移
   （`liquid-drift`，`prefers-reduced-motion` 下静止），玻璃后的光场明显流动；
@@ -44,12 +38,18 @@
   背景，监控面板从工具栏下方开始、与 Shell 和 SFTP 顶部对齐；监控信息、
   目录与文件列表不设嵌套卡片与列表内框（表头不粘顶、随内容滚动），
   主要通过留白、标题与选中状态区分内容。
-- 液态玻璃不使用背景图（保存的 `backgroundId` 原样保留，切回经典即恢复）；
-  极地/夜幕照常使用背景。
+- 液态玻璃不使用背景图（保存的 `backgroundId` 原样保留，切回经典即恢复）。
 - 回退：`@supports not (backdrop-filter)` 或 `prefers-reduced-transparency` →
   全部收敛到同色实底（--glass-solid / --glass-terminal-solid）；
   `forced-colors:active` → Canvas/CanvasText + 系统描边；原生窗口保持不透明，
   材质全部画在 WebViews 内（`WindowIsTranslucent:false`，桌面启动底色按样式+明暗选择）。
+
+## 已移除样式
+
+- 2026-11 移除 **极地**（Nord 风 `polar`）与 **夜幕**（Tokyo Night 风
+  `twilight`）：保存的 `uiStyle` 或主题快照中的旧值在 UnmarshalJSON 加载时
+  迁回 `classic`，旧配置不会导致后续外观保存被枚举校验拒绝；保存端对
+  `polar`/`twilight` 整笔拒绝。
 
 ## 状态与兼容
 
@@ -65,15 +65,16 @@
 
 `npm run preview:themes` 生成 `docs/design/global-themes-preview.html`：
 复用产品标记与 CSS + 固定演示数据，无真实服务器、不写产品偏好。
-参数：`?style=classic|frosted|polar|twilight`、`?mode=light|dark|system`、
+参数：`?style=classic|frosted`、`?mode=light|dark|system`、
 `?blur=off`（预览实色回退）、`?panel=themes`（打开对话框）、
 `?panel=settings-appearance`（外观配置子菜单）。
 截图见 `docs/design/previews/`（Edge 无头）。
 
 ## 验证范围
 
-- Go：`uiStyle` 补丁往返、四枚举校验、非法值整笔拒绝、空值回退 classic。
-- 前端：`npm run check`；`test:theme` 增加 boot 样式、`setStyle` 白名单回退、
-  setStyle 不直接持久化的断言。
-- 视觉：Edge 无头截图四样式×明暗 + 对话框（`docs/design/previews/`）。
+- Go：`uiStyle` 补丁往返、两套枚举校验、已移除的 polar/twilight 保存拒绝、
+  旧配置文件加载迁移到 classic、非法值整笔拒绝、空值回退 classic。
+- 前端：`npm run check`；`test:theme` 增加 boot 样式、已移除样式回退、
+  `setStyle` 白名单回退、setStyle 不直接持久化的断言。
+- 视觉：Edge 无头截图两套样式×明暗 + 对话框（`docs/design/previews/`）。
 - 真机待办：macOS 原生窗口与 GPU 性能；液态玻璃在真实 WebView2 下的采样成本。
